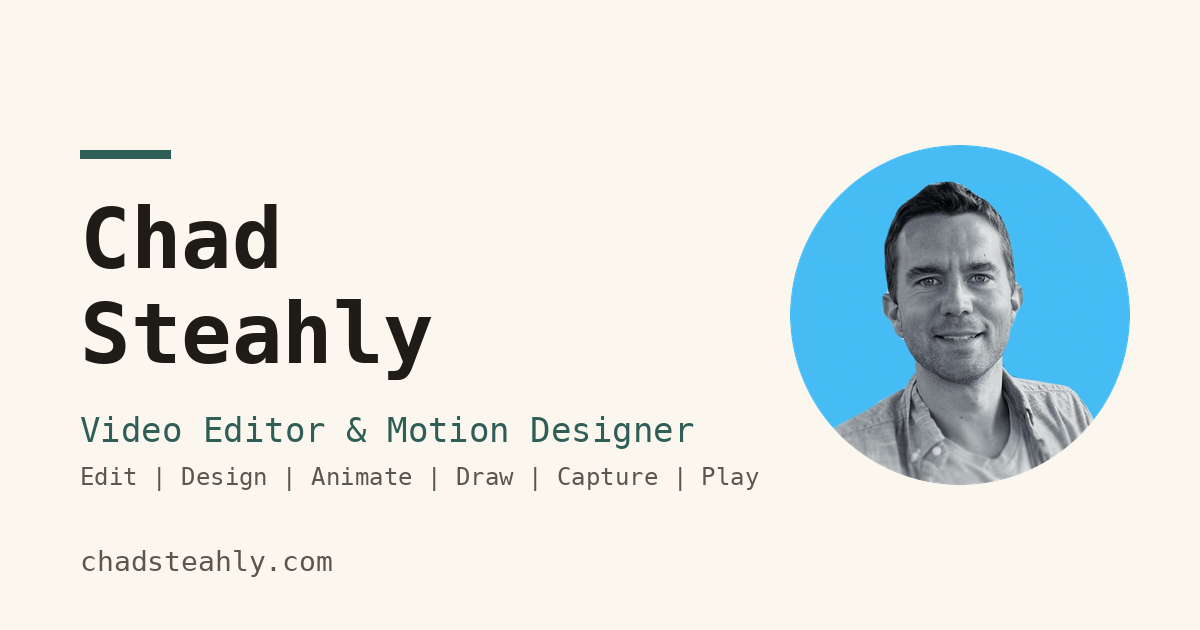
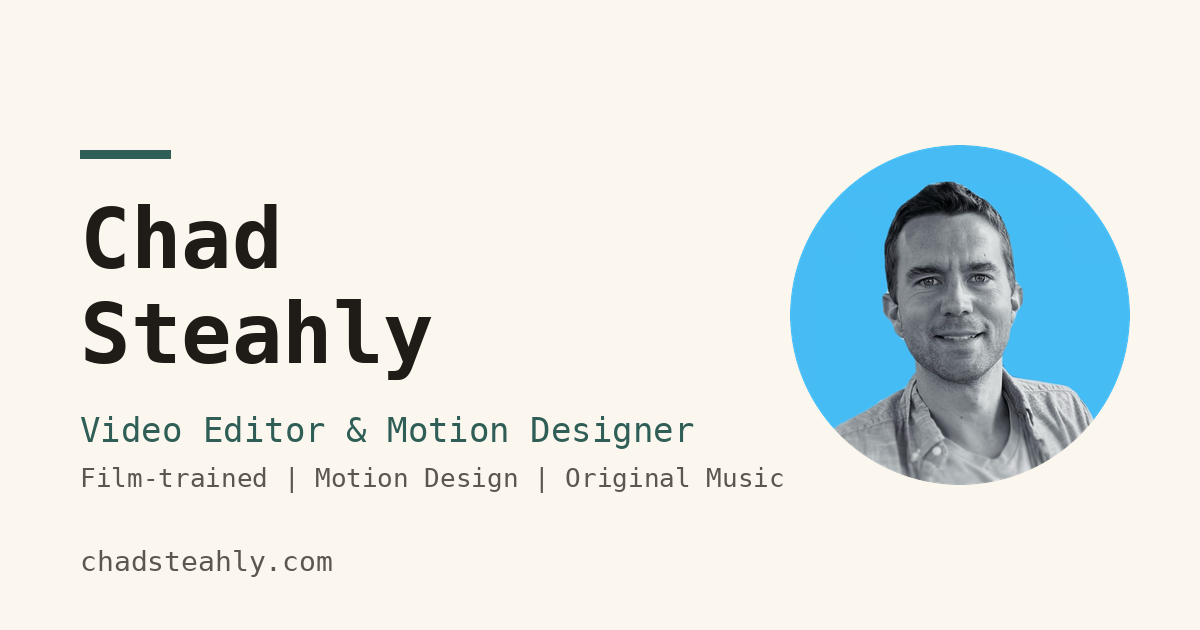
Add files via upload

Changed region(s): [[0.0617, 0.7238, 0.6475, 0.7841]]

diff --git a/index.html b/index.html
@@ -4,11 +4,11 @@
 <meta charset="UTF-8">
 <meta name="viewport" content="width=device-width, initial-scale=1.0">
 <title>Chad Steahly — Video Editor &amp; Motion Designer</title>
-<meta name="description" content="Selected video editing, motion design, and title and logo animation by Chad Steahly, plus original music.">
+<meta name="description" content="Film-trained video editor and motion designer in Columbus, OH: title and logo animation, promo and tutorial video, and original music on streaming services.">
 <meta property="og:type" content="website">
 <meta property="og:site_name" content="Chad Steahly">
 <meta property="og:title" content="Chad Steahly — Video Editor &amp; Motion Designer">
-<meta property="og:description" content="Selected video editing, motion design, and title and logo animation by Chad Steahly, plus original music.">
+<meta property="og:description" content="Film-trained video editor and motion designer in Columbus, OH: title and logo animation, promo and tutorial video, and original music on streaming services.">
 <meta property="og:url" content="https://chadsteahly.com/">
 <meta property="og:image" content="https://chadsteahly.com/social-preview.png">
 <meta property="og:image:width" content="1200">
@@ -19,6 +19,44 @@
 <link rel="icon" type="image/png" sizes="32x32" href="favicon-32x32.png">
 <link rel="icon" type="image/png" sizes="16x16" href="favicon-16x16.png">
 <link rel="apple-touch-icon" href="apple-touch-icon.png">
+<script type="application/ld+json">
+{
+  "@context": "https://schema.org",
+  "@type": "Person",
+  "name": "Chad Steahly",
+  "url": "https://chadsteahly.com/",
+  "image": "https://chadsteahly.com/headshot.webp",
+  "jobTitle": "Video Editor & Motion Designer",
+  "description": "Film-trained video editor and motion designer in Columbus, OH: title and logo animation, promo and tutorial video, and original music on streaming services.",
+  "address": {
+    "@type": "PostalAddress",
+    "addressLocality": "Columbus",
+    "addressRegion": "OH",
+    "addressCountry": "US"
+  },
+  "worksFor": {
+    "@type": "Organization",
+    "name": "Pearson"
+  },
+  "alumniOf": {
+    "@type": "CollegeOrUniversity",
+    "name": "Wright State University"
+  },
+  "knowsAbout": [
+    "Video editing",
+    "Motion design",
+    "Logo animation",
+    "Title animation",
+    "Video production",
+    "Music production"
+  ],
+  "sameAs": [
+    "https://www.linkedin.com/in/chadsteahly/",
+    "https://instagram.com/chadsteahly",
+    "https://letterboxd.com/chadsteahly/"
+  ]
+}
+</script>
 <link rel="stylesheet" href="style.css">
 <script>
   (function () {

diff --git a/reel.html b/reel.html
@@ -4,11 +4,11 @@
 <meta charset="UTF-8">
 <meta name="viewport" content="width=device-width, initial-scale=1.0">
 <title>Reel — Chad Steahly</title>
-<meta name="description" content="Chad Steahly's motion design and editing reel, with a full timecode breakdown by project and role.">
+<meta name="description" content="Chad Steahly's 2026 reel: title and logo animation, motion design, and editing for brands, product, and entertainment, with a timecoded breakdown.">
 <meta property="og:type" content="website">
 <meta property="og:site_name" content="Chad Steahly">
 <meta property="og:title" content="Reel — Chad Steahly">
-<meta property="og:description" content="Chad Steahly's motion design and editing reel, with a full timecode breakdown by project and role.">
+<meta property="og:description" content="Chad Steahly's 2026 reel: title and logo animation, motion design, and editing for brands, product, and entertainment, with a timecoded breakdown.">
 <meta property="og:url" content="https://chadsteahly.com/reel.html">
 <meta property="og:image" content="https://chadsteahly.com/social-preview.png">
 <meta property="og:image:width" content="1200">

diff --git a/contact.html b/contact.html
@@ -4,11 +4,11 @@
 <meta charset="UTF-8">
 <meta name="viewport" content="width=device-width, initial-scale=1.0">
 <title>Contact — Chad Steahly</title>
-<meta name="description" content="Get in touch with Chad Steahly, or download his resume.">
+<meta name="description" content="Contact Chad Steahly, a film-trained video editor and motion designer open to entertainment, streaming, product, and brand video work. Download a resume.">
 <meta property="og:type" content="website">
 <meta property="og:site_name" content="Chad Steahly">
 <meta property="og:title" content="Contact — Chad Steahly">
-<meta property="og:description" content="Get in touch with Chad Steahly, or download his resume.">
+<meta property="og:description" content="Contact Chad Steahly, a film-trained video editor and motion designer open to entertainment, streaming, product, and brand video work. Download a resume.">
 <meta property="og:url" content="https://chadsteahly.com/contact.html">
 <meta property="og:image" content="https://chadsteahly.com/social-preview.png">
 <meta property="og:image:width" content="1200">
